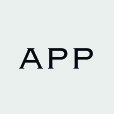
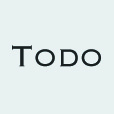
setup project

Changed region(s): [[0.1053, 0.3947, 0.8947, 0.6053]]

diff --git a/app/js/noBounce.js b/app/js/noBounce.js
@@ -1,0 +1,151 @@
+var noBounce = function() {
+var module = {};
+
+var settings = {
+  animate: true
+};
+
+var track = [];
+
+var velocity = {
+  x: 0,
+  y: 0
+};
+
+var vector = {
+  subtraction: function(v1, v2) {
+    return {
+      x: v1.x - v2.x,
+      y: v1.y - v2.y
+    };
+  },
+  length: function(v) {
+    return Math.sqrt((v.x * v.x) + (v.y * v.y));
+  },
+  unit: function(v) {
+    var length = vector.length(v);
+    v.x /= length;
+    v.y /= length;
+  },
+  skalarMult: function(v, s) {
+    v.x *= s;
+    v.y *= s;
+  }
+};
+
+var requestAnimFrame = (function() {
+  return window.requestAnimationFrame ||
+    window.webkitRequestAnimationFrame ||
+    window.mozRequestAnimationFrame ||
+    window.oRequestAnimationFrame ||
+    window.msRequestAnimationFrame ||
+    function(callback) {
+      window.setTimeout(callback, 1000 / 60);
+    };
+})();
+
+function handleTouchStart(evt) {
+  var point,
+    touch;
+
+  touch = evt.changedTouches[0];
+  point = {
+    x: touch.clientX,
+    y: touch.clientY,
+    timeStamp: evt.timeStamp
+  };
+  track = [point];
+}
+
+function handleTouchMove(evt) {
+  var point,
+    touch;
+
+  evt.preventDefault();
+
+  touch = evt.changedTouches[0];
+  point = {
+    x: touch.clientX,
+    y: touch.clientY,
+    timeStamp: evt.timeStamp
+  };
+  track.push(point);
+  doScroll();
+}
+
+function handleTouchEnd(evt) {
+  if (track.length > 2 && settings.animate) {
+    velocity = calcVelocity();
+    requestAnimFrame(animate);
+  }
+}
+
+function calcVelocity() {
+  var p1,
+    p2,
+    v,
+    timeDiff,
+    length;
+
+  p1 = track[0];
+  p2 = track[track.length - 1];
+  timeDiff = p2.timeStamp - p1.timeStamp;
+  v = vector.subtraction(p2, p1);
+  length = vector.length(v);
+  vector.unit(v);
+  vector.skalarMult(v, length / timeDiff * 20);
+  return v;
+}
+
+function doScroll() {
+  var p1,
+    p2,
+    x,
+    y;
+
+  if (track.length > 1) {
+    p1 = track[track.length - 1];
+    p2 = track[track.length - 2];
+    x = p2.x - p1.x;
+    y = p2.y - p1.y;
+    requestAnimFrame(function() {
+      window.scrollBy(x, y);
+    });
+  }
+}
+
+function animate() {
+  scrollBy(-velocity.x, -velocity.y);
+  vector.skalarMult(velocity, 0.95);
+  if (vector.length(velocity) > 0.2) {
+    requestAnimFrame(animate);
+  }
+}
+
+//Returns true if it is a DOM element
+function isElement(o) {
+  return (
+    typeof HTMLElement === "object" ? o instanceof HTMLElement : //DOM2
+    o && typeof o === "object" && o !== null && o.nodeType === 1 && typeof o.nodeName === "string"
+  );
+}
+
+module.init = function(options) {
+  if (typeof options.animate === "boolean") {
+    settings.animate = options.animate;
+  }
+  if (isElement(options.element)) {
+    settings.element = options.element;
+  }
+
+  var element = settings.element || document;
+
+  element.addEventListener("touchstart", handleTouchStart);
+  element.addEventListener("touchmove", handleTouchMove);
+  element.addEventListener("touchend", handleTouchEnd);
+  element.addEventListener("touchcancel", handleTouchEnd);
+  element.addEventListener("touchleave", handleTouchEnd);
+};
+
+return module;
+}();

diff --git a/app/components/toDoList.jsx b/app/components/toDoList.jsx
@@ -1,0 +1,65 @@
+import React from 'react';
+import { List, ListItem } from 'react-toolbox/lib/list';
+
+import styles from '../styling/toDoList.scss';
+
+const ToDoList = () => (
+  <List selectable ripple className={styles.toDoList} >
+    <ListItem
+      caption="Dr. Manhattan"
+      legend="Jonathan 'Jon' Osterman"
+      rightIcon="star"
+      className={styles.listItem}
+    />
+    <ListItem
+      caption="Ozymandias"
+      legend="Adrian Veidt"
+      rightIcon="star"
+      className={styles.listItem}
+    />
+    <ListItem
+      caption="Rorschach"
+      legend="Walter Joseph Kovacs"
+      rightIcon="star"
+      className={styles.listItem}
+    />
+    <ListItem
+      caption="Dr. Manhattan"
+      legend="Jonathan 'Jon' Osterman"
+      rightIcon="star"
+      className={styles.listItem}
+    />
+    <ListItem
+      caption="Ozymandias"
+      legend="Adrian Veidt"
+      rightIcon="star"
+      className={styles.listItem}
+    />
+    <ListItem
+      caption="Rorschach"
+      legend="Walter Joseph Kovacs"
+      rightIcon="star"
+      className={styles.listItem}
+    />
+    <ListItem
+      caption="Dr. Manhattan"
+      legend="Jonathan 'Jon' Osterman"
+      rightIcon="star"
+      className={styles.listItem}
+    />
+    <ListItem
+      caption="Ozymandias"
+      legend="Adrian Veidt"
+      rightIcon="star"
+      className={styles.listItem}
+    />
+    <ListItem
+      caption="Rorschach"
+      legend="Walter Joseph Kovacs"
+      rightIcon="star"
+      className={styles.listItem}
+    />
+  </List>
+);
+
+export default ToDoList;

diff --git a/app/index.html b/app/index.html
@@ -1,12 +1,28 @@
 <!DOCTYPE html>
 <html>
 <head>
-  <title>React iOS Web App</title>
+  <title>Todo</title>
   <meta name="viewport" content="width=device-width, initial-scale=1, user-scalable=no" />
   <link rel="apple-touch-icon" href="img/icon.png"/>
   <meta name="apple-mobile-web-app-capable" content="yes" />
+  <meta name="apple-mobile-web-app-status-bar-style" content="black-translucent">
+  <link href="https://fonts.googleapis.com/icon?family=Material+Icons" rel="stylesheet" />
+  <style type="text/css">
+    html {
+      font-size: 12px;
+    }
+    body {
+      margin: 0;
+    }
+  </style>
 </head>
 <body>
   <div id="app"></div>
+  <script src="js/noBounce.js"></<script>
+  <script>
+    noBounce.init({
+      animate: true
+    });
+  </script>
 </body>
 </html>

diff --git a/app/components/appBar.jsx b/app/components/appBar.jsx
@@ -1,0 +1,17 @@
+import React from 'react';
+import Bar from 'react-toolbox/lib/app_bar';
+import Navigation from 'react-toolbox/lib/navigation';
+
+import styles from '../styling/appBar.scss';
+
+const actions = [
+  { label: 'Add', raised: true, icon: 'add', flat: true, inverse: true },
+];
+
+const AppBar = () => (
+  <Bar title="Todo" fixed className={styles.appBar}>
+    <Navigation type="horizontal" actions={actions} />
+  </Bar>
+);
+
+export default AppBar;

diff --git a/webpack.config.js b/webpack.config.js
@@ -47,7 +47,8 @@ const config = {
       template: path.join(PATHS.app, 'index.html')
     }),
     new CopyWebpackPlugin([
-      { from: path.join(PATHS.app, 'img'), to: path.join(PATHS.dist, 'img') }
+      { from: path.join(PATHS.app, 'img'), to: path.join(PATHS.dist, 'img') },
+      { from: path.join(PATHS.app, 'js'), to: path.join(PATHS.dist, 'js') }
     ])
   ],
   sassLoader: {

diff --git a/app/components/app.jsx b/app/components/app.jsx
@@ -1,8 +1,13 @@
 import React from 'react';
-import AppBar from 'react-toolbox/lib/app_bar';
+import AppBar from './appBar.jsx';
+import ToDoList from './toDoList.jsx';
 
 const App = () => (
-  <AppBar title="React iOS Web App" />
+  <div>
+    <AppBar />
+    <ToDoList />
+  </div>
+
 );
 
 export default App;

diff --git a/app/styling/toDoList.scss b/app/styling/toDoList.scss
@@ -1,0 +1,10 @@
+.toDoList {
+  margin-top: 100px;
+}
+
+.listItem {
+  > span {
+    padding-left: 2.4rem;
+    padding-right: 2.4rem;
+  }
+}

diff --git a/app/styling/appBar.scss b/app/styling/appBar.scss
@@ -1,0 +1,3 @@
+.appBar {
+  padding-top: 20px;
+}
